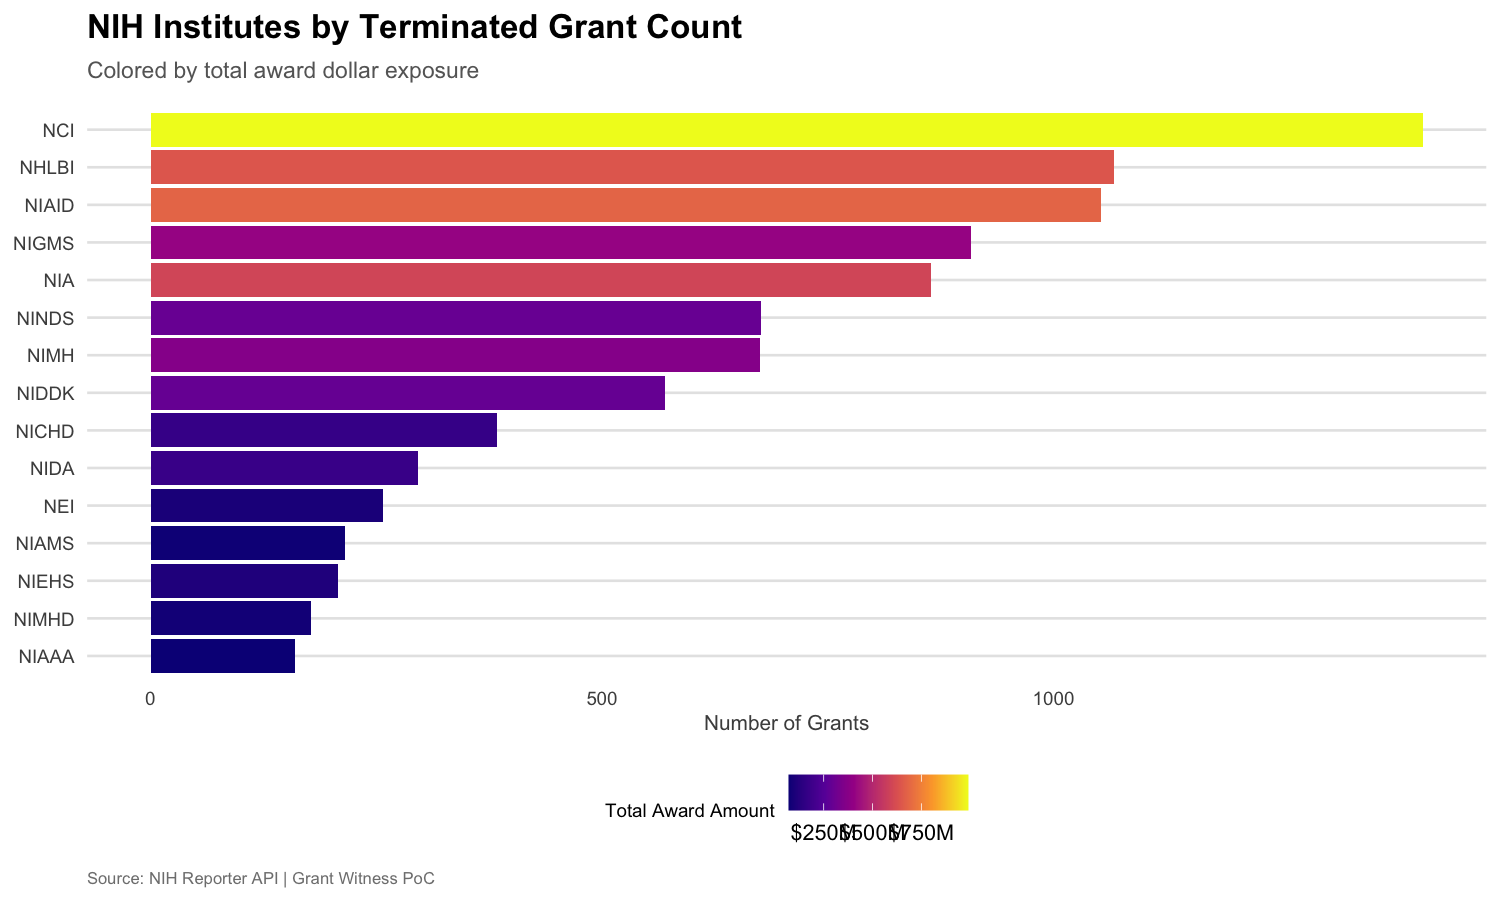
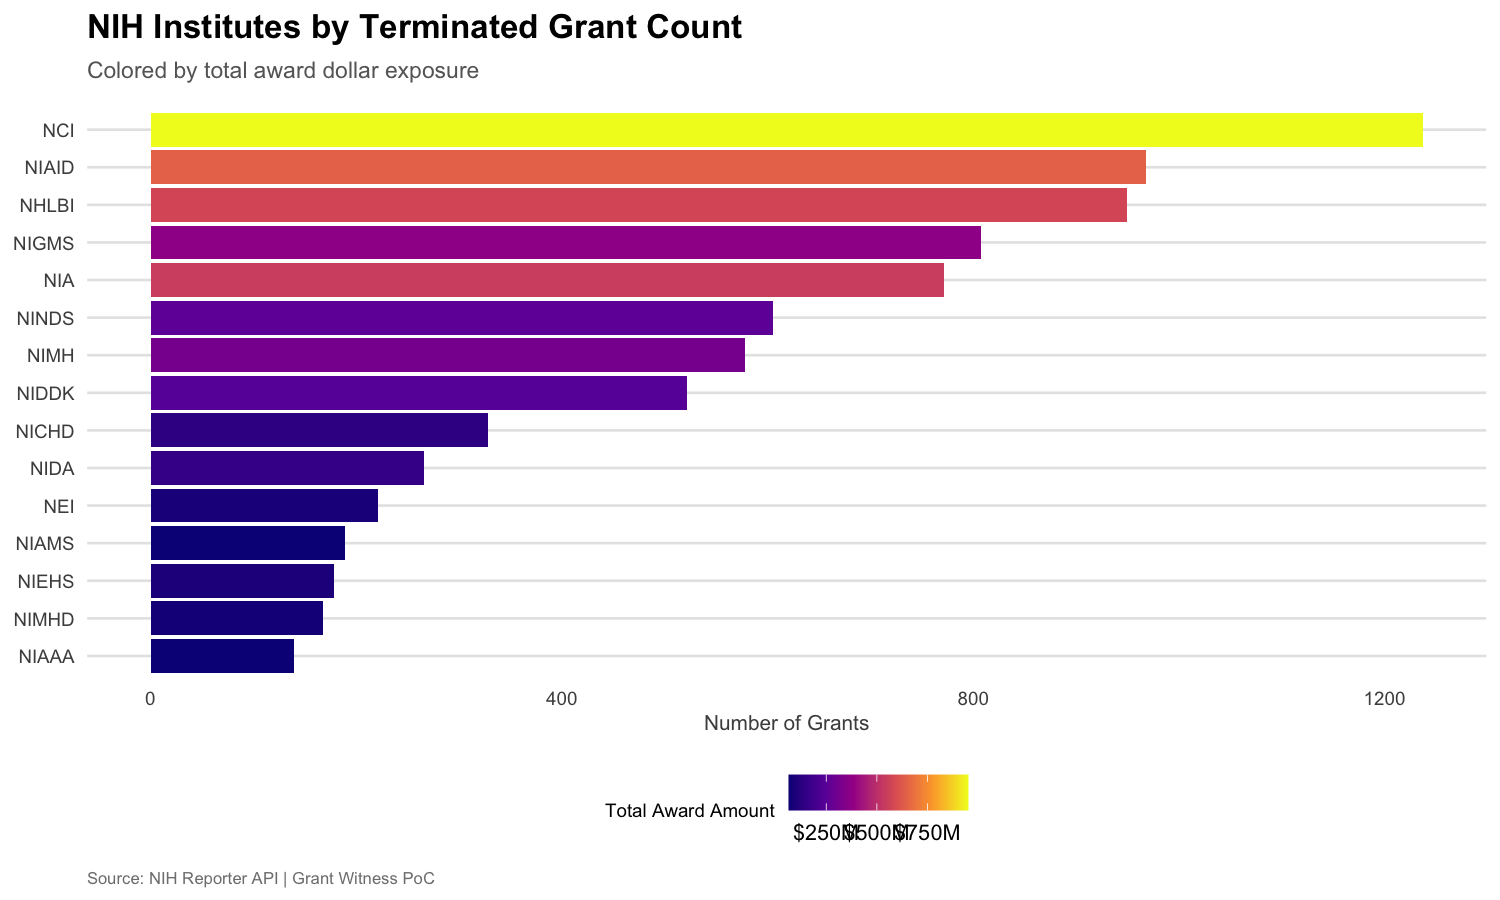
fix: deduplicate NIH pagination boundary overlaps (13.6% of rows)
The NIH Reporter API returns overlapping results at page boundaries
when sorted by project_end_date, causing 1,359 duplicate grant_number
entries (13.6%). Added distinct(grant_number) after binding pages.

NIH notices now 8,641 unique (was 10,000 with dupes). Updated README
and plots with corrected numbers.

diff --git a/README.md b/README.md
@@ -48,13 +48,13 @@ The pipeline discovers grants where **government reporting contradicts observed 
 
 | Metric | Value |
 |---|---|
-| NIH terminated grants scraped | 10,000 |
+| NIH terminated grants scraped | 8,641 (deduplicated) |
 | NSF terminated awards parsed | 1,667 |
 | USAspending awards fetched | 15,000 (HHS + NSF + EPA) |
 | Exact matches (grant number) | 489 |
-| Fuzzy matches (org name + date) | 13,351 |
-| Active Despite Terminated | 2,108 grants |
-| Possible Freeze (< 10% outlay) | 14,373 grants |
+| Fuzzy matches (org name + date) | 11,886 |
+| Active Despite Terminated | 1,838 grants |
+| Possible Freeze (< 10% outlay) | 13,178 grants |
 | Untracked (no forensic notice) | 11,310 grants |
 
 ## Running the Pipeline
@@ -108,7 +108,7 @@ R/
   visualize.R           # ggplot2 charts (GW visual style)
   utils.R               # Shared HTTP, date parsing, logging
 tests/
-  testthat/test-parsers.R   # 151 tests covering all modules
+  testthat/test-parsers.R   # 152 tests covering all modules
 _targets.R                  # Pipeline orchestration
 ```
 
